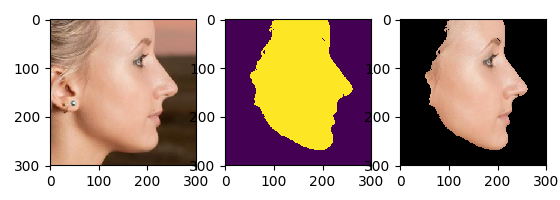
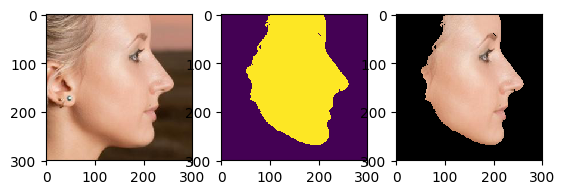
add total landmarks detection

diff --git a/face_segment_yuval.py b/face_segment_yuval.py
@@ -6,6 +6,7 @@ import matplotlib.pyplot as plt
 import caffe
 import argparse
 
+from face_alignment.api import FaceAlignment, LandmarksType, NetworkSize
 from util import *
 
 
@@ -14,26 +15,31 @@ def main(args):
 
     for path in image_paths:
         # load image, switch to BGR, subtract mean, and make dims C x H x W for Caffe
-        im = Image.open(path)
 
-        if args.crop != 'no':
-            # use landmarks to crop image
-            landmark_file = path[:-3] + 'txt'
-            landmarks = load_landmarks(landmark_file)
-            if args.crop == 'middle':
-                im = crop_image_middle(landmarks, im)
-            else:
-                im = crop_image_min(landmarks, im)
-                args.crop = 'min'
+        if path[-3:] == 'jpg' or path[-3:] == 'png':
+            imi = Image.open(path)
+        else:
+            continue
+
+        # use 2D-FAN detect landmarks
+        fa = FaceAlignment(LandmarksType._2D, enable_cuda=True,
+                           flip_input=False, use_cnn_face_detector=True)
+        landmarks = fa.get_landmarks(np.array(imi))[-1]
+        landmarks = landmarks.astype('uint16')
+
+        if args.crop == 'middle':
+            imi, landmarks = crop_image_middle(landmarks, imi)
+        elif args.crop == 'min':
+            imi, landmarks = crop_image_min(landmarks, imi)
 
         if '300' in args.prototxt:
-            im = im.resize((300, 300))
+            imi = imi.resize((300, 300))
         else:
-            im = im.resize((500, 500))
-        in_ = np.array(im, dtype=np.float32)
-        in_ = in_[:,:,::-1]
-        in_ -= np.array((104.00698793,116.66876762,122.67891434))
-        in_ = in_.transpose((2,0,1))
+            imi = imi.resize((500, 500))
+        im = np.array(imi, dtype=np.float32)
+        im = im[:,:,::-1]
+        im -= np.array((104.00698793,116.66876762,122.67891434))
+        im = im.transpose((2,0,1))
 
         # init
         caffe.set_device(0)
@@ -43,31 +49,29 @@ def main(args):
         net = caffe.Net(args.prototxt, args.caffemodel, caffe.TEST)
 
         # shape for input (data blob is N x C x H x W), set data
-        net.blobs['data'].reshape(1, *in_.shape)
-        net.blobs['data'].data[...] = in_
+        net.blobs['data'].reshape(1, *im.shape)
+        net.blobs['data'].data[...] = im
 
         # run net and take argmax for prediction
         net.forward()
         mask = net.blobs['score'].data[0].argmax(axis=0)
-
-        im_seg = im * np.tile((mask!=0)[:,:,np.newaxis], (1,1,3))
+        im_seg = imi * np.tile((mask!=0)[:,:,np.newaxis], (1,1,3))
 
         path = path[:-1] if path[-1] == '/' else path
-
         if '300' in args.prototxt:
             image_name = path[path.rindex('/')+1:-4] + '_yuval_300_nocrf_' + args.crop + '.png'
         else:
             image_name = path[path.rindex('/')+1:-4] + '_yuval_nocrf_' + args.crop + '.png'
-        show_result(im, mask, im_seg, save=True, filename='images/'+image_name)
+        show_result(imi, mask, im_seg, save=False, filename='images/'+image_name)
 
         # add CRF
         prob = np.concatenate(((1-mask)[np.newaxis,:,:]*0.9 + mask[np.newaxis,:,:]*0.1, mask[np.newaxis,:,:]*0.9+(1-mask)[np.newaxis,:,:]*0.1), axis=0)
-        map = CRF(prob, np.array(im))
+        map = CRF(prob, np.array(imi))
         if '300' in args.prototxt:
             image_name = path[path.rindex('/')+1:-4] + '_yuval_300_crf_' + args.crop + '.png'
         else:
             image_name = path[path.rindex('/')+1:-4] + '_yuval_crf_' + args.crop + '.png'
-        show_result(im, map, np.tile((map!=0)[:,:,np.newaxis], (1,1,3)) * im, save=True, filename='images/'+image_name)
+        show_result(imi, map, np.tile((map!=0)[:,:,np.newaxis], (1,1,3)) * im, save=False, filename='images/'+image_name)
 
 
 if __name__=="__main__":
@@ -81,7 +85,7 @@ if __name__=="__main__":
                         default='data/face_seg_fcn8s_300.caffemodel',
                         type=str, help='path to caffemodel')
     parser.add_argument('--crop', choices=['min', 'middle', 'no'],
-                        help='choose min/middle/no crop')
+                        default='min', help='choose min/middle/no crop')
     args = parser.parse_args()
 
     main(args)

diff --git a/face_segment_part.py b/face_segment_part.py
@@ -5,7 +5,6 @@ import caffe
 import numpy as np
 from PIL import Image
 from PIL import ImageDraw
-from skimage import draw
 import scipy.io
 import string
 import matplotlib.pyplot as plt
@@ -36,8 +35,8 @@ def main(args):
     caffe.set_device(0)
 
     # Load both networks
-    net1 = caffe.Net('model/net_landmarks.prototxt', \
-                     'model/params_landmarks.caffemodel', caffe.TEST)
+    #net1 = caffe.Net('model/net_landmarks.prototxt', \
+    #                 'model/params_landmarks.caffemodel', caffe.TEST)
     net2 = caffe.Net('model/net_segmentation.prototxt', \
                      'model/params_segmentation.caffemodel', caffe.TEST)
 
@@ -55,7 +54,6 @@ def main(args):
             imi = Image.open(imName)
         else:
             continue
-        print imName
 
         # use 2D-FAN detect landmarks
         fa = FaceAlignment(LandmarksType._2D, enable_cuda=True,
@@ -123,10 +121,10 @@ def main(args):
         imName = imName[:-1] if imName[-1] == '/' else imName
         image_name = imName[imName.rindex('/')+1:-4] + '_part_nocrf_' + args.crop + '.png'
         show_result(imi, mask, np.tile((mask!=0)[:,:,np.newaxis], (1,1,3)) * imi,
-                    save=False, filename='images/'+image_name)
+                    save=True, filename='images/'+image_name)
         image_name = imName[imName.rindex('/')+1:-4] + '_part_crf_' + args.crop + '.png'
         show_result(imi, map, np.tile((map!=0)[:,:,np.newaxis], (1,1,3)) * imi,
-                    save=False, filename='images/'+image_name)
+                    save=True, filename='images/'+image_name)
 
 
 if __name__=="__main__":
@@ -135,6 +133,6 @@ if __name__=="__main__":
     parser.add_argument('--image_list', default='input/list.txt', type=str,
                         help='path to input images')
     parser.add_argument('--crop', choices=['min', 'middle', 'no'],
-                        help='choose min/middle/no crop')
+                        default='min', help='choose min/middle/no crop')
     args = parser.parse_args()
     main(args)

diff --git a/face_segment_contour.py b/face_segment_contour.py
@@ -6,19 +6,21 @@ import numpy as np
 import matplotlib.pyplot as plt
 from PIL import Image
 
-from util import read_list, load_landmarks, show_result, CRF
+from face_alignment.api import FaceAlignment, LandmarksType, NetworkSize
+from util import read_list, show_result, CRF
 
 def main(args):
     image_paths = read_list(args.image_list)
     for path in image_paths:
-        # landmarks_file should have the same prefix as image_file
-        landmarks_file = path[:-3] + 'txt'
         im = Image.open(path)
         width, height = im.size
-        landmarks = load_landmarks(landmarks_file)
+
+        # use 2D-FAN detect landmarks
+        fa = FaceAlignment(LandmarksType._2D, enable_cuda=True,
+                           flip_input=False, use_cnn_face_detector=True)
+        landmarks = fa.get_landmarks(np.array(im))[-1]
         landmarks[:,1] = height - landmarks[:,1]
-        # select contour points
-        #contour_points = get_contour_side(landmarks)
+
         # generate a contour curve with contour points
         hull = ConvexHull(landmarks)
         # draw landmarks
@@ -41,7 +43,7 @@ def main(args):
                                mask[np.newaxis, :, :]*0.9 +
                                (1-mask)[np.newaxis, :, :]*0.1), axis=0)
         map = CRF(prob, np.array(im))
-        #show_result(im, map, np.tile((map!=0)[:,:,np.newaxis], (1,1,3)) * im)
+        show_result(im, map, np.tile((map!=0)[:,:,np.newaxis], (1,1,3)) * im)
 
 
 if __name__=="__main__":

diff --git a/util.py b/util.py
@@ -87,7 +87,7 @@ def crop_image_min(landmarks, image):
 
 
 def load_landmarks(filename, number=68):
-    """Load landmarks
+    """Load landmarks from file
 
     Note:
         Format:
@@ -124,7 +124,7 @@ def show_result(image, mask, seg, save=False, filename='fig.png'):
     if save:
         #plt.imsave('seg.png', seg)
         #plt.imsave('mask.png', mask)
-        plt.savefig(filename)
+        plt.savefig(filename, bbox_inches='tight')
     else:
         plt.show()
 

diff --git a/model/empty.md b/model/empty.md
@@ -1,1 +1,1 @@
-Please download .caffemodel and .prototxt here. Models in face_segment_part.py could be downloaded [here](https://aaronsplace.co.uk/papers/jackson2016guided/index.html). Models in face_segment_yuval.py could be downloaded [here](https://github.com/YuvalNirkin/face_segmentation). 
+Please download .caffemodel and .prototxt here. Models in face_segment_part.py could be downloaded [here](https://aaronsplace.co.uk/papers/jackson2016guided/index.html). Models in face_segment_yuval.py could be downloaded [here](https://github.com/YuvalNirkin/face_segmentation). 2D-FAN model is downloaded automatically.

diff --git a/README.md b/README.md
@@ -53,9 +53,9 @@ Add crf to second model:
 
 
 ## TODO
-- [ ] Add landmark detection
 - [ ] Modify probability computation in face_segment_yuval.py
 - [ ] Add speed test
+- [x] Add landmark detection
 - [x] Add image cropping
 - [x] Contour -> segment
 - [x] Unify code style
